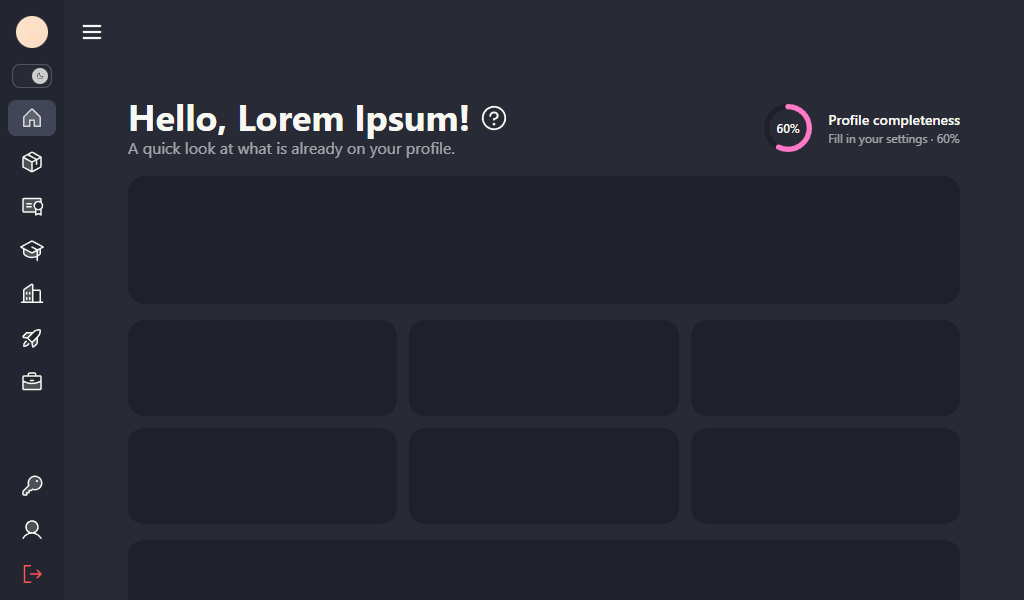
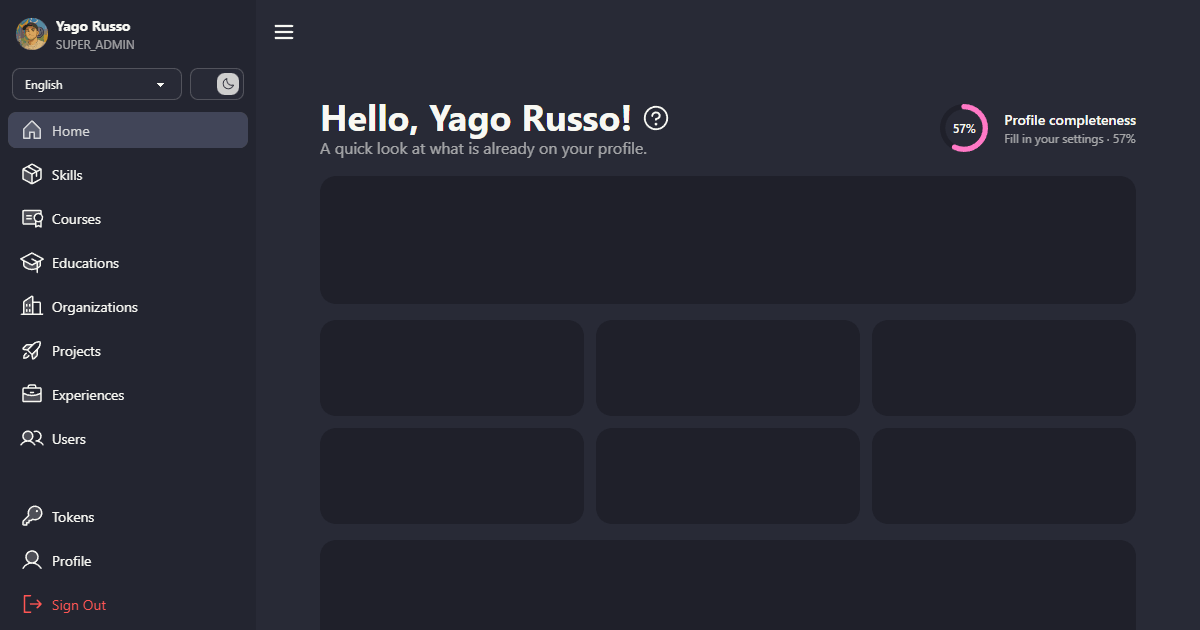
fix(admin): update social share image dimensions for improved SEO
- Adjusted Open Graph image dimensions in `index.html` to 1200x630 for better compatibility with social media platforms.
- Updated corresponding documentation in `admin.md` to reflect the new image size.
- Replaced the old image file with a new version to match the updated specifications.

diff --git a/apps/admin/index.html b/apps/admin/index.html
@@ -22,8 +22,8 @@
       content="https://yagrrusso.github.io/profile-info/og.png"
       property="og:image"
     >
-    <meta content="1024" property="og:image:width">
-    <meta content="600" property="og:image:height">
+    <meta content="1200" property="og:image:width">
+    <meta content="630" property="og:image:height">
     <meta content="Profile Info" property="og:image:alt">
     <meta content="website" property="og:type">
 

diff --git a/agents/admin.md b/agents/admin.md
@@ -94,6 +94,6 @@ Keep `components/`, `hooks/custom/`, and `lib/` domain-agnostic. Table toolbar c
 - Do not add ad-hoc 401 handling in hooks.
 - `dev` backgrounds codegen; first start may race — run `build` once if types missing.
 - GitHub Pages: deploy copies `index.html` to `404.html`; `VITE_BASE_PATH` must match Pages subpath.
-- Social share tags in `index.html`: `description`, full Open Graph (`og:title` / `description` / `url` / `site_name` / `locale` / `image` + width/height/alt / `type`), and Twitter (`twitter:card=summary_large_image`, title, description, image). Absolute URLs for Pages. Image: `public/og.png` (1024×600; prefer a designed ~1200×630 banner for large-card unfurls). Instagram does not unfurl links the same way.
+- Social share tags in `index.html`: `description`, full Open Graph (`og:title` / `description` / `url` / `site_name` / `locale` / `image` + width/height/alt / `type`), and Twitter (`twitter:card=summary_large_image`, title, description, image). Absolute URLs for Pages. Image: `public/og.png` (1200×630). Instagram does not unfurl links the same way.
 - Auth shell (`routes/-components/auth.tsx`) composes `AuthBrandPanel` with `SignIn` / `SignUp`.
 - No test framework configured in this package.
